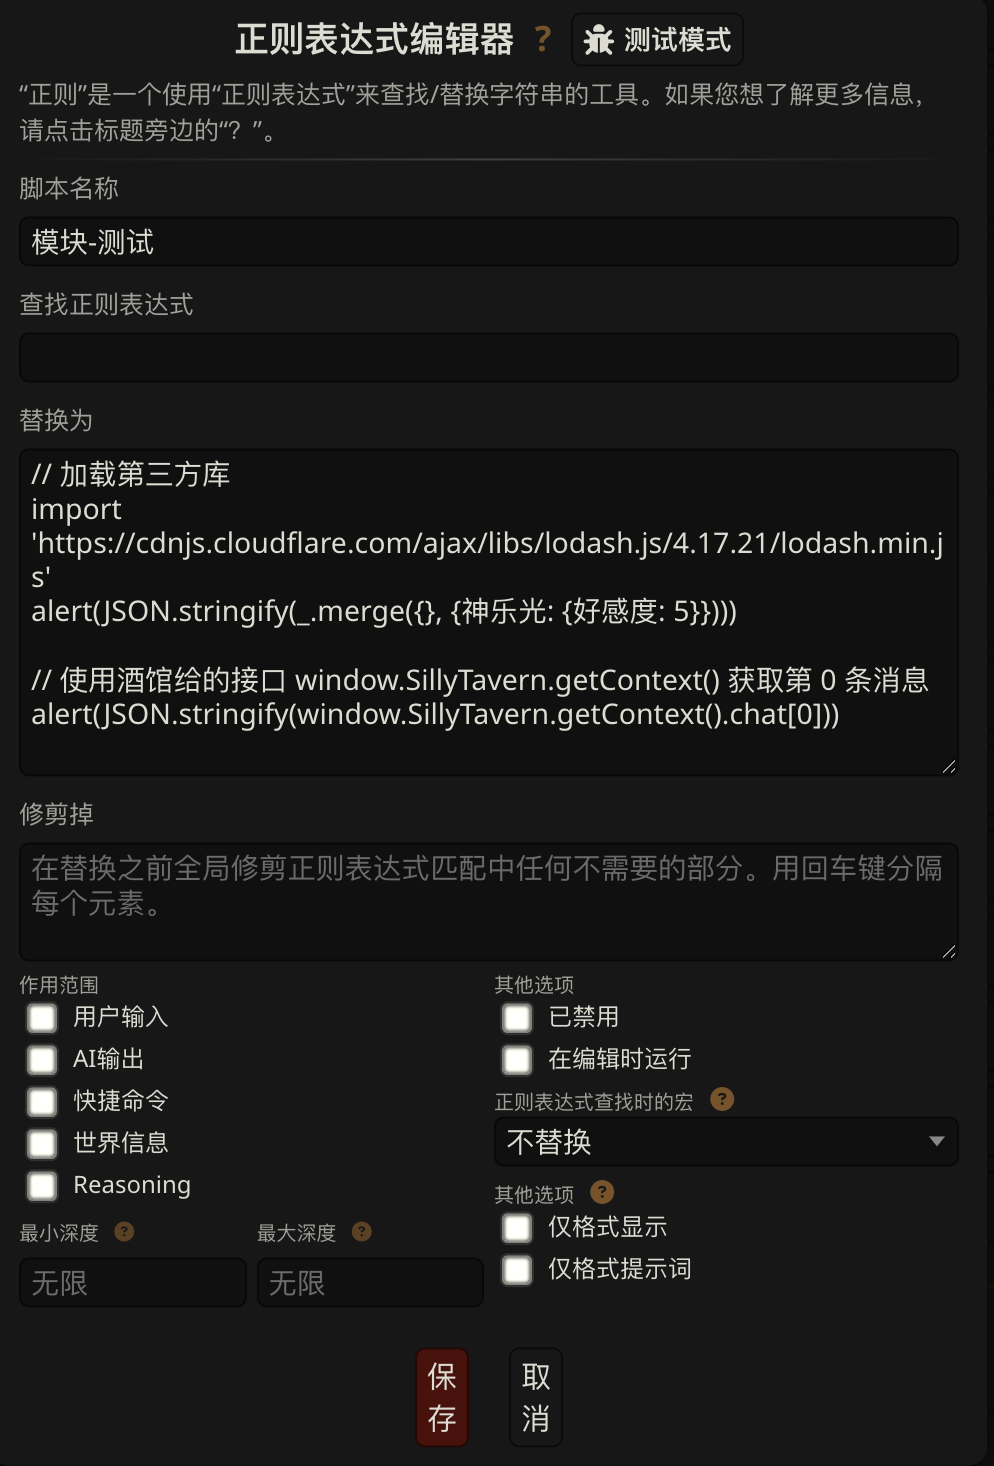
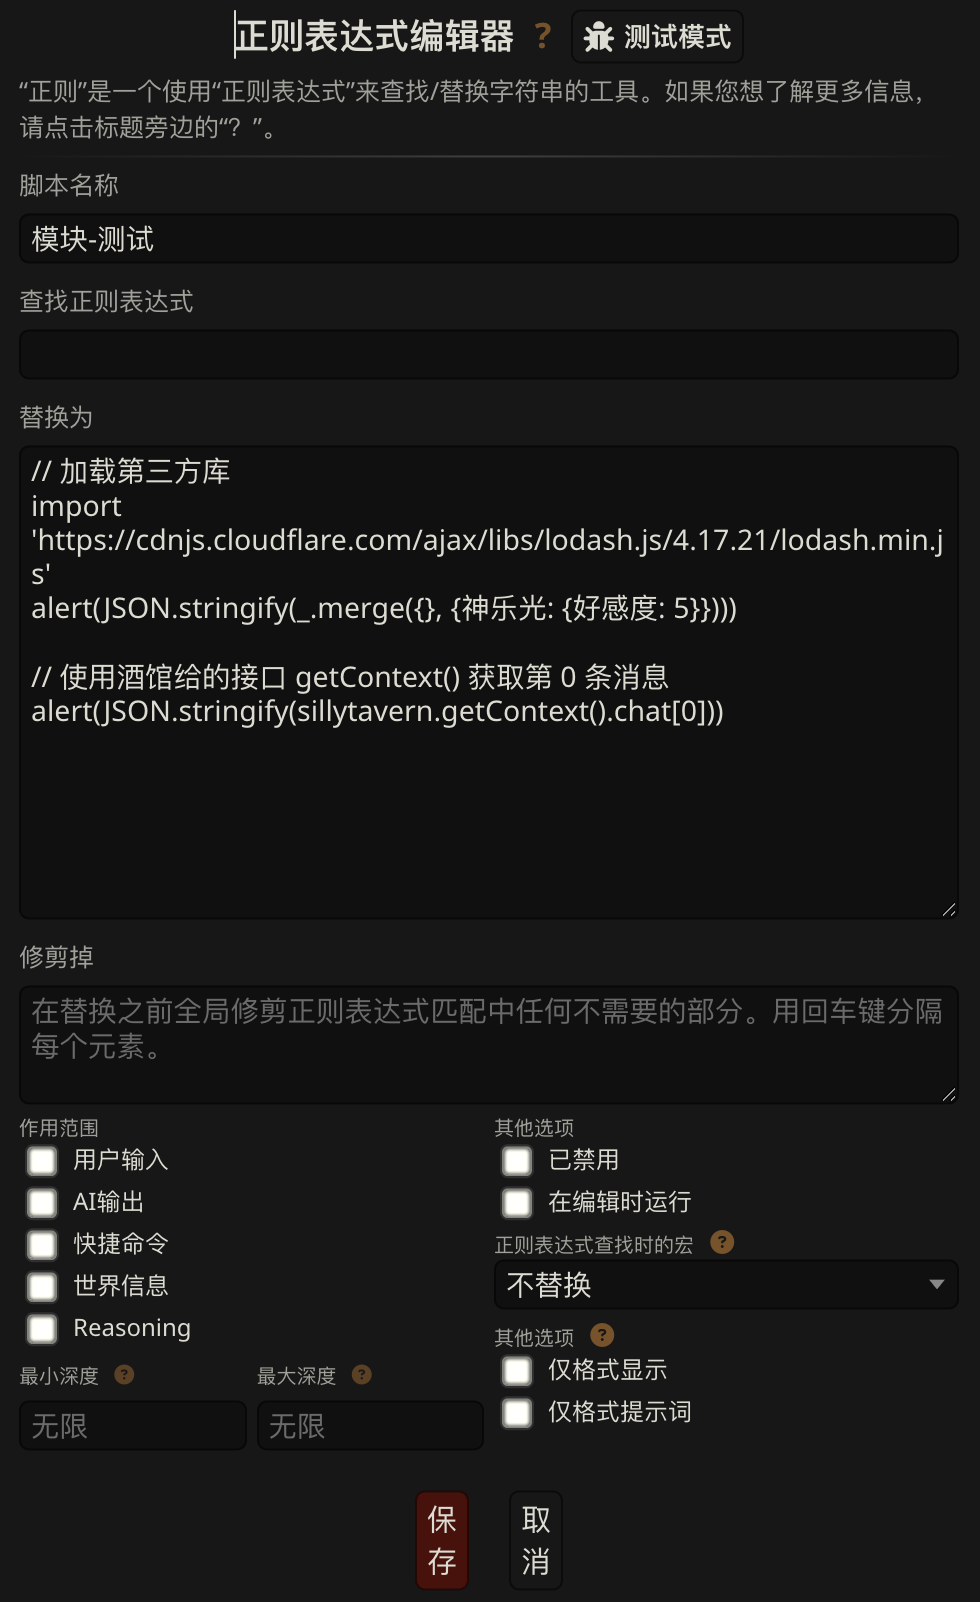
feat: sillyTavern.getContext()

diff --git a/src/iframe_client/exported.ts b/src/iframe_client/exported.ts
@@ -1,0 +1,17 @@
+interface SillyTavern {
+  /**
+   * 酒馆提供给插件的稳定接口, 具体内容见于 https://github.com/SillyTavern/SillyTavern/blob/release/public/scripts/st-context.js#L76
+   * 你也可以在酒馆页面按 f12, 在监视中输入 `window.SillyTavern` 来查看当前酒馆所提供的接口
+   */
+  getContext: () => any;
+
+  /**
+   * 酒馆提供给插件的一些第三方库, 具体内容见于 https://github.com/SillyTavern/SillyTavern/blob/release/public/lib.js#L79
+   * 你也可以在酒馆页面按 f12, 在监视中输入 `window.SillyTavern` 来查看当前酒馆所提供的接口
+   */
+  libs: Record<string, any>;
+}
+
+function sillyTavern(): SillyTavern {
+  return (window.parent as unknown as { SillyTavern: SillyTavern }).SillyTavern;
+}

diff --git a/dist/iframe_client_exported/index.js b/dist/iframe_client_exported/index.js
@@ -3,6 +3,7 @@ import { iframe_client__multimap } from "./_multimap.js";
 import { iframe_client_chat_message } from "./chat_message.js";
 import { iframe_client_displayed_message } from "./displayed_message.js";
 import { iframe_client_event } from "./event.js";
+import { iframe_client_exported } from "./exported.js";
 import { iframe_client_frontend_version } from "./frontend_version.js";
 import { iframe_client_generate } from "./generate.js";
 import { iframe_client_lorebook } from "./lorebook.js";
@@ -17,6 +18,7 @@ export const iframe_client = [
     iframe_client_chat_message,
     iframe_client_displayed_message,
     iframe_client_event,
+    iframe_client_exported,
     iframe_client_frontend_version,
     iframe_client_generate,
     iframe_client_lorebook,

diff --git a/src/component/module.ts b/src/component/module.ts
@@ -23,6 +23,16 @@ function destroyIfInitialized(): void {
   })
 }
 
+function include_library(code: string): string {
+  const library: string = `
+function sillyTavern() {
+  return window.SillyTavern;
+}
+` as const;
+
+  return library + code;
+}
+
 async function initialize(): Promise<void> {
   destroyIfInitialized();
 
@@ -30,7 +40,7 @@ async function initialize(): Promise<void> {
   console.info(`[Module] 加载模块: ${JSON.stringify(scripts.map(module => module.name))}`);
 
   for (const script of scripts) {
-    script_url.set(script.name, script.code);
+    script_url.set(script.name, include_library(script.code));
     const module: Module = await import(script_url.get(script.name) as string);
     if (module.onLoad) {
       module.onLoad();

diff --git a/src/iframe_client_exported/index.ts b/src/iframe_client_exported/index.ts
@@ -3,6 +3,7 @@ import {iframe_client__multimap} from "./_multimap.js"
 import {iframe_client_chat_message} from "./chat_message.js"
 import {iframe_client_displayed_message} from "./displayed_message.js"
 import {iframe_client_event} from "./event.js"
+import {iframe_client_exported} from "./exported.js"
 import {iframe_client_frontend_version} from "./frontend_version.js"
 import {iframe_client_generate} from "./generate.js"
 import {iframe_client_lorebook} from "./lorebook.js"
@@ -18,6 +19,7 @@ export const iframe_client = [
   iframe_client_chat_message, 
   iframe_client_displayed_message, 
   iframe_client_event, 
+  iframe_client_exported, 
   iframe_client_frontend_version, 
   iframe_client_generate, 
   iframe_client_lorebook, 

diff --git a/dist/component/module.js b/dist/component/module.js
@@ -14,12 +14,20 @@ function destroyIfInitialized() {
         script_url.delete(key);
     });
 }
+function include_library(code) {
+    const library = `
+function sillyTavern() {
+  return window.SillyTavern;
+}
+`;
+    return library + code;
+}
 async function initialize() {
     destroyIfInitialized();
     const scripts = loadScripts("模块-");
     console.info(`[Module] 加载模块: ${JSON.stringify(scripts.map(module => module.name))}`);
     for (const script of scripts) {
-        script_url.set(script.name, script.code);
+        script_url.set(script.name, include_library(script.code));
         const module = await import(script_url.get(script.name));
         if (module.onLoad) {
             module.onLoad();

diff --git a/dist/iframe_client_exported/exported.js b/dist/iframe_client_exported/exported.js
@@ -1,0 +1,6 @@
+export const iframe_client_exported = `
+function sillyTavern() {
+    return window.parent.SillyTavern;
+}
+`;
+//# sourceMappingURL=exported.js.map

diff --git a/dist/iframe_client/exported.js b/dist/iframe_client/exported.js
@@ -1,0 +1,5 @@
+"use strict";
+function sillyTavern() {
+    return window.parent.SillyTavern;
+}
+//# sourceMappingURL=exported.js.map

diff --git a/src/iframe_client_exported/exported.ts b/src/iframe_client_exported/exported.ts
@@ -1,0 +1,5 @@
+export const iframe_client_exported = `
+function sillyTavern() {
+    return window.parent.SillyTavern;
+}
+`
